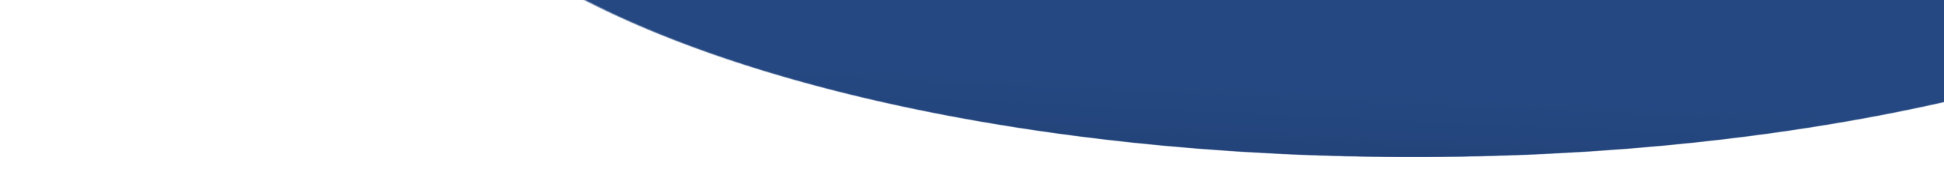
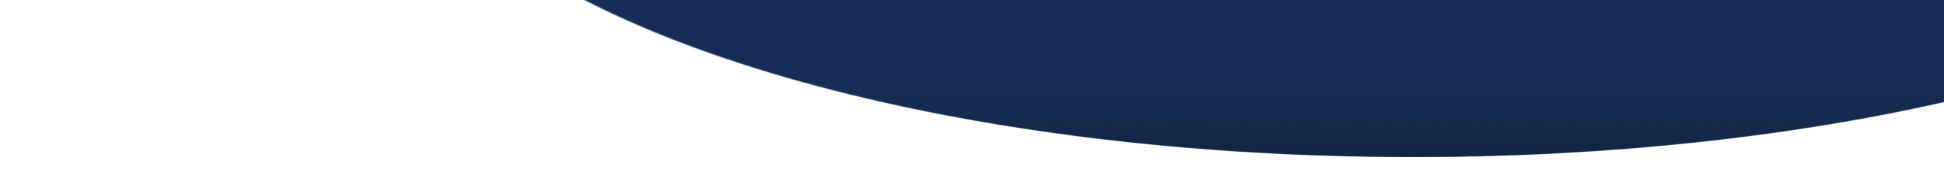
fix colors and about

diff --git a/pages/track/verify.vue b/pages/track/verify.vue
@@ -3,7 +3,7 @@
     <div class="container wrapper">
       <p class="has-text-weight-semibold p-heading has-text-centered">
         Trade Lookup
-        <span class="is-block has-text-centered has-text-weight-normal" style="font-size: 0.95rem; color: #254882;">
+        <span class="is-block has-text-centered has-text-weight-normal" style="font-size: 0.95rem; color: #162e55;">
           Quickly track and manage your transaction
         </span>
       </p>
@@ -79,7 +79,7 @@
                 fill="none"
                 xmlns="http://www.w3.org/2000/svg"
               >
-                <path d="M3.05176e-05 1H69" stroke="#254882" />
+                <path d="M3.05176e-05 1H69" stroke="#162e55" />
               </svg>
               <span>{{ tradeData.created|prettydate(true) }}</span>
             </p>
@@ -422,10 +422,10 @@ div.wrapper {
   min-height: 580px;
   margin-bottom: 3rem;
   margin-top: 3rem;
-  font-family: $font-avenir;
+  font-family: $font-inter;
 
   p.p-heading {
-    color: #254882;
+    color: #162e55;
     font-size: 1.7rem;
     margin-bottom: 1.5rem;
   }
@@ -451,7 +451,7 @@ div.wrapper {
       text-align: center;
       padding: 0.9rem 0;
       .status {
-        color: #254882;
+        color: #162e55;
         font-size: 1.159rem;
       }
       .progress-bar {
@@ -467,7 +467,7 @@ div.wrapper {
           display: inline-block;
           text-align: left;
           height: inherit;
-          background: #254882;
+          background: #162e55;
           margin: 0;
           padding: 0;
           border-radius: inherit;
@@ -508,7 +508,7 @@ div.wrapper {
         margin: 0.3rem 0;
         span._title {
           display: block;
-          color: #254882;
+          color: #162e55;
           margin-bottom: 0.2rem;
         }
         span._item {
@@ -518,17 +518,17 @@ div.wrapper {
         }
       }
       .brief {
-        border-bottom: 1px solid #254882;
+        border-bottom: 1px solid #162e55;
         padding-bottom: 0.3rem;
-        color: #254882;
+        color: #162e55;
       }
       .date {
-        color: #254882;
+        color: #162e55;
       }
       .button {
         font-size: 0.92rem;
         color: #ffffff;
-        background: #254882;
+        background: #162e55;
       }
     }
   }
@@ -611,7 +611,7 @@ div.wrapper {
         font-size: 0.8rem;
         border-radius: 12px;
         color: #ffffff;
-        background: #254882;
+        background: #162e55;
       }
     }
   }

diff --git a/pages/index.vue b/pages/index.vue
@@ -28,7 +28,20 @@
                 >
                   <path d="M3.05176e-05 1H69" stroke="#ffffff" />
                 </svg>
-                <span>Instant payouts</span><br>
+                <span class="pointers">Instant payouts</span><br>
+              </p>
+              <p style="margin: 0.2rem 0; vertical-align: middle;">
+                <svg
+                  width="30"
+                  height="2"
+                  style="vertical-align: middle"
+                  viewBox="0 0 69 2"
+                  fill="none"
+                  xmlns="http://www.w3.org/2000/svg"
+                >
+                  <path d="M3.05176e-05 1H69" stroke="#ffffff" />
+                </svg>
+                <span class="pointers">No signups required</span><br>
               </p>
               <p style="margin: 0.2rem 0; vertical-align: bottom;">
                 <svg
@@ -41,20 +54,7 @@
                 >
                   <path d="M3.05176e-05 1H69" stroke="#ffffff" />
                 </svg>
-                <span>No signups required</span><br>
-              </p>
-              <p style="margin: 0.2rem 0; vertical-align: bottom;">
-                <svg
-                  width="30"
-                  height="2"
-                  style="vertical-align: middle"
-                  viewBox="0 0 69 2"
-                  fill="none"
-                  xmlns="http://www.w3.org/2000/svg"
-                >
-                  <path d="M3.05176e-05 1H69" stroke="#ffffff" />
-                </svg>
-                <span>No debit card charges</span><br>
+                <span class="pointers">No debit card charges</span><br>
               </p>
               <p style="margin: 0.2rem 0 1rem; vertical-align: bottom;">
                 <svg
@@ -67,7 +67,7 @@
                 >
                   <path d="M3.05176e-05 1H69" stroke="#ffffff" />
                 </svg>
-                <span>Best exchange rates</span><br>
+                <span class="pointers">Best exchange rates</span><br>
               </p>
               <p class="g-text" @click="getStarted">
                 Get started now <i class="fas fa-chevron-circle-right" style="vertical-align: middle;" />
@@ -184,6 +184,13 @@ html {
   line-height: 1.5;
   font-size: 1.1rem;
 }
+/*
+.pointers:before {
+  content: url('~assets/check.png');
+  vertical-align: middle;
+  margin-right: 10px;
+}
+*/
 .g-text {
   font-weight: bold;
   font-size: 1.3rem;

diff --git a/pages/about.vue b/pages/about.vue
@@ -2,10 +2,14 @@
   <section class="about">
     <div class="has-text-centered section-one">
       <h1 class="title">
-        About Us
+        About
       </h1>
       <p class="bod">
-        Bitcoin - Naira instant exchange
+        <!-- Bitcoin - Naira instant exchange -->
+        Senexpay is a bitcoin to naira instant exchange platform which ensures a 
+        client's ease of use, protection, and network reliability. Users can buy 
+        and sell bitcoins within minutes irrespective of the time, place, and 
+        transaction volume.
       </p>
     </div>
     <div class="section-two wrapper">
@@ -26,7 +30,7 @@
               trust, offering easy, fast, and secure means to exchange bitcoins to naira 
               for the least knowledgeable individual and new users.
               <br><br>
-              Senex Payment Services Limited was founded in December 2016 by Mr Okeoghene 
+              Senex Payment Services Limited was founded in December 2016 by Okeoghene 
               Orhosere and is headquartered in Lekki, Lagos State. The company is registered 
               and incorporated in 2018 with the Cooperate Affairs Commission and is backed 
               by some investors in Africa. Formerly known solely as Senex in 2016, the 
@@ -142,7 +146,7 @@ export default {
   }
 
   .section-one {
-    padding: 60px 20px;
+    padding: 50px 10px 40px;
     color: #ffffff;
     background: #162e55;
     .title {
@@ -151,14 +155,14 @@ export default {
     }
 
     .bod {
-      max-width: 700px;
+      max-width: 800px;
       margin: 0 auto;
     }
   }
 
   .section-two {
     .company-text {
-      padding: 15px;
+      // padding: 15px;
       max-width: 800px;
       text-align: center;
       margin: 0 auto;

diff --git a/pages/track/index.vue b/pages/track/index.vue
@@ -277,10 +277,10 @@ div.wrapper {
   }
 
   margin-top: 2rem;
-  font-family: $font-avenir;
+  font-family: $font-inter;
 
   p.p-heading {
-    color: #254882;
+    color: #162e55;
     font-size: 1.7rem;
     margin-bottom: 1.5rem;
   }
@@ -300,8 +300,8 @@ div.wrapper {
       margin-top: 1rem;
       margin-bottom: 2rem;
       button.track-button {
-        background-color: #254882;
-        font-family: $font-avenir;
+        background-color: #162e55;
+        font-family: $font-inter;
         color: #fff;
       }
     }
@@ -314,7 +314,7 @@ div.wrapper {
   }
 
   div.otpverification-wrapper {
-    font-family: $font-avenir;
+    font-family: $font-inter;
     input {
       font-weight: bold;
       text-align: center;
@@ -327,7 +327,7 @@ div.wrapper {
 
       p.subheading {
         text-align: center;
-        color: #254882;
+        color: #162e55;
         margin: 0.8rem 0;
       }
 
@@ -341,7 +341,7 @@ div.wrapper {
         text-align: center;
         button {
           color: #ffffff;
-          background-color: #254882;
+          background-color: #162e55;
         }
       }
 
@@ -354,12 +354,12 @@ div.wrapper {
   }
 
   div.trade-status-wrapper {
-    font-family: $font-avenir;
+    font-family: $font-inter;
 
     div.trade-status-container {
       .subheading {
         text-align: center;
-        color: #254882;
+        color: #162e55;
         padding: 1rem 0;
         font-size: 1.3rem;
       }
@@ -369,7 +369,7 @@ div.wrapper {
         .trade-info-item {
           margin: 0.7rem 0;
           .item-heading {
-            color: #254882;
+            color: #162e55;
             margin-bottom: 0.5rem;
           }
 

diff --git a/pages/faq.vue b/pages/faq.vue
@@ -74,10 +74,10 @@ export default {
 div.wrapper {
   margin-bottom: 3em;
   margin-top: 3rem;
-  font-family: $font-avenir;
+  font-family: $font-inter;
   .title {
     font-size: 1.7em;
-    color: #254882;
+    color: #162e55;
   }
   .q-wrapper {
     .q-item {
@@ -102,11 +102,11 @@ div.wrapper {
       }
       .q {
         padding: 0.8em 1.5em;
-        background-color: #254882;
+        background-color: #162e55;
         color: #fff;
         line-height: normal;
         border-radius: 2px;
-        font-size: 1.2em;
+        font-size: 1.05em;
         &:hover {
           cursor: pointer;
         }
@@ -117,7 +117,7 @@ div.wrapper {
         border-top: 0;
         border-radius: 2px;
         color: #000000;
-        line-height: normal;
+        line-height: 1.5;
         display: none;
       }
     }

diff --git a/components/navbar.vue b/components/navbar.vue
@@ -36,7 +36,7 @@
           <nuxt-link class="navbar-item" to="/faq" :class="{'is-active': isActiveNavItem('/faq')}">
             <span>FAQ</span>
           </nuxt-link>
-          <a href="mailto:info@senexpay.com" class="button">
+          <a href="mailto:info@senexpay.com" class="button" target="_blank" rel="noreferrer noopener">
             <span><i class="fas fa-envelope" /></span>
           </a>
         </div>

diff --git a/components/footer.vue b/components/footer.vue
@@ -65,7 +65,7 @@ export default {
 @import '@/assets/scss/fonts.scss';
 
 .footer2 {
-  background: #153467;
+  background: #142f5a;
   color: #fff;
   font-family: $font-avenir;
   box-shadow: 2px -2px 4px rgba(0, 0, 0, 0.25);

diff --git a/static/OneSignalSDKWorker.js b/static/OneSignalSDKWorker.js
@@ -1,1 +1,1 @@
-importScripts('/sw.js?1596326748506', 'https://cdn.onesignal.com/sdks/OneSignalSDK.js')
+importScripts('/sw.js?1596367327836', 'https://cdn.onesignal.com/sdks/OneSignalSDK.js')
